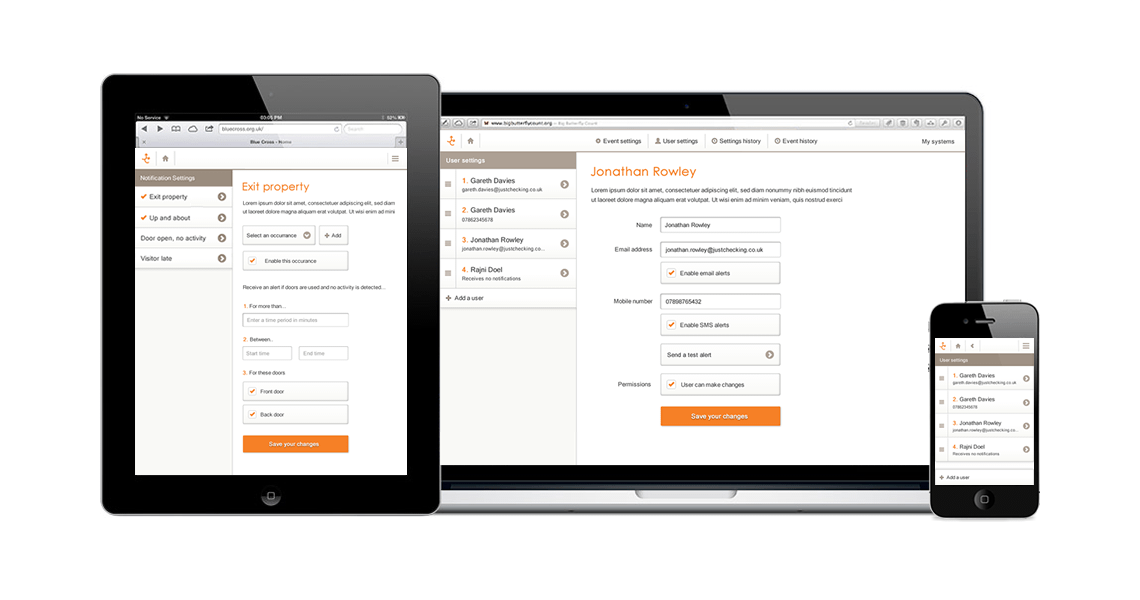
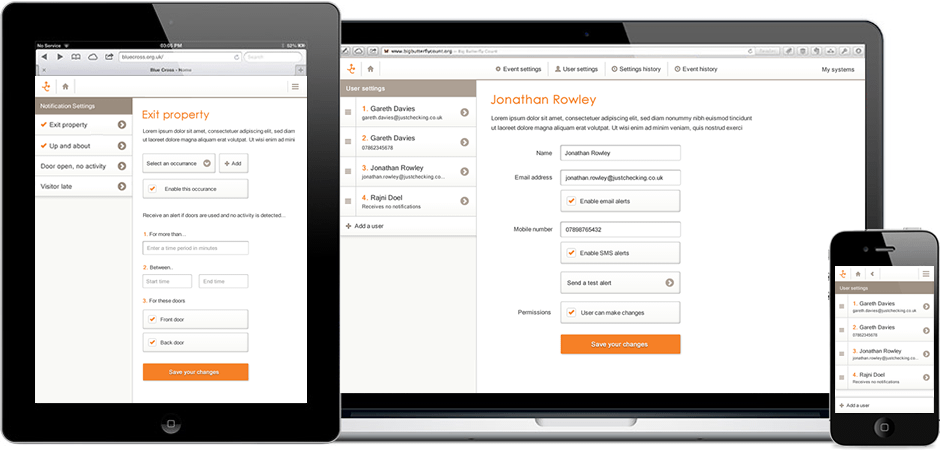
updated images to png

diff --git a/publish/index.html b/publish/index.html
@@ -11,10 +11,9 @@
 	<title>Gareth Davies | Web Design &amp; Development | Birmingham, UK</title>
 	<meta name=description content="The personal website of Birmingham based designer and developer Gareth Davies">
 	<meta name=author content="Gareth Davies">
-
 	<meta name=viewport content="width=device-width, initial-scale=1, maximum-scale=1">
-
-	<link rel=stylesheet href='css/a5b1796.css'>
+	<link rel="shortcut icon" href="images/favicon.ico">
+	<link rel=stylesheet href='css/69ebaae.css'>
 
 </head>
 
@@ -52,7 +51,7 @@
 
 		<section class=clearfix>
 
-			<img data-original="images/work-carerplus.jpg" src="images/placeholder.gif" alt="" class="margin-bottom pull-right">
+			<img data-original="images/work-carerplus.png" src="images/placeholder.gif" alt="Carer+ mockups" class="margin-bottom pull-right">
 
 			<header>
 
@@ -91,7 +90,7 @@
 
 		<section class=clearfix>
 
-			<img data-original="images/work-jc.jpg" src="images/placeholder.gif" alt="" class="margin-bottom pull-right">
+			<img data-original="images/work-jc.png" src="images/placeholder.gif" alt="Support dashboard mockups" class="margin-bottom pull-right">
 
 			<header>
 
@@ -128,7 +127,7 @@
 
 		<section>
 
-			<img data-original="images/work-bcu.jpg" src="images/placeholder.gif" alt="" class="margin-bottom pull-right">
+			<img data-original="images/work-bcu.png" src="images/placeholder.gif" alt="Birmingham City University mockups" class="margin-bottom pull-right">
 
 			<header>
 
@@ -170,7 +169,7 @@
 
 			</header>
 
-			<img data-original="images/work-youthspace.jpg" src="images/placeholder.gif" alt="" class="margin-bottom pull-right">
+			<img data-original="images/work-youthspace.png" src="images/placeholder.gif" alt="Youthspace mockups" class="margin-bottom pull-right">
 
 			<div class="column-left pull-left">
 
@@ -205,7 +204,7 @@
 
 			</header>
 
-			<img data-original="images/work-sso.jpg" src="images/placeholder.gif" alt="" class="margin-bottom pull-right">
+			<img data-original="images/work-sso.png" src="images/placeholder.gif" alt="SSO mockups" class="margin-bottom pull-right">
 
 			<div class="column-left pull-left">
 
@@ -235,7 +234,7 @@
 	<script>window.jQuery||document.write('<script src="js/libs/jquery-1.8.2.min.js"><\/script>');</script>
 
 	<script defer src='js/e88d86b.js'></script>
-	
+
 	<script>var _gaq=[["_setAccount","UA-21012185-1"],["_trackPageview"]];(function(e,a){var c=e.createElement(a),b=e.getElementsByTagName(a)[0];c.src=("https:"==location.protocol?"//ssl":"//www")+".google-analytics.com/ga.js";b.parentNode.insertBefore(c,b)}(document,"script"));</script>
 
 </body>

diff --git a/intermediate/index.html b/intermediate/index.html
@@ -11,10 +11,9 @@
 	<title>Gareth Davies | Web Design &amp; Development | Birmingham, UK</title>
 	<meta name="description" content="The personal website of Birmingham based designer and developer Gareth Davies">
 	<meta name="author" content="Gareth Davies">
-
 	<meta name="viewport" content="width=device-width, initial-scale=1, maximum-scale=1">
-
-	<link rel="stylesheet" href='css/a5b1796.css'>
+	<link rel="shortcut icon" href="images/favicon.ico">
+	<link rel="stylesheet" href='css/69ebaae.css'>
 
 </head>
 
@@ -52,7 +51,7 @@
 
 		<section class="clearfix">
 
-			<img data-original="images/work-carerplus.jpg" src="images/placeholder.gif" alt="" class="margin-bottom pull-right">
+			<img data-original="images/work-carerplus.png" src="images/placeholder.gif" alt="Carer+ mockups" class="margin-bottom pull-right">
 
 			<header>
 
@@ -91,7 +90,7 @@
 
 		<section class="clearfix">
 
-			<img data-original="images/work-jc.jpg" src="images/placeholder.gif" alt="" class="margin-bottom pull-right">
+			<img data-original="images/work-jc.png" src="images/placeholder.gif" alt="Support dashboard mockups" class="margin-bottom pull-right">
 
 			<header>
 
@@ -128,7 +127,7 @@
 
 		<section>
 
-			<img data-original="images/work-bcu.jpg" src="images/placeholder.gif" alt="" class="margin-bottom pull-right">
+			<img data-original="images/work-bcu.png" src="images/placeholder.gif" alt="Birmingham City University mockups" class="margin-bottom pull-right">
 
 			<header>
 
@@ -170,7 +169,7 @@
 
 			</header>
 
-			<img data-original="images/work-youthspace.jpg" src="images/placeholder.gif" alt="" class="margin-bottom pull-right">
+			<img data-original="images/work-youthspace.png" src="images/placeholder.gif" alt="Youthspace mockups" class="margin-bottom pull-right">
 
 			<div class="column-left pull-left">
 
@@ -205,7 +204,7 @@
 
 			</header>
 
-			<img data-original="images/work-sso.jpg" src="images/placeholder.gif" alt="" class="margin-bottom pull-right">
+			<img data-original="images/work-sso.png" src="images/placeholder.gif" alt="SSO mockups" class="margin-bottom pull-right">
 
 			<div class="column-left pull-left">
 
@@ -235,7 +234,7 @@
 	<script>window.jQuery || document.write('<script src="js/libs/jquery-1.8.2.min.js"><\/script>')</script>
 
 	<script defer src='js/e88d86b.js'></script>
-	
+
 	<script>
 		var _gaq=[['_setAccount','UA-21012185-1'],['_trackPageview']];
 		(function(d,t){var g=d.createElement(t),s=d.getElementsByTagName(t)[0];

diff --git a/intermediate/css/style-concat.css b/intermediate/css/style-concat.css
@@ -29,7 +29,7 @@
 		padding: 0;
 		border: 0;
 /*		font-size: 100%;*/
-		font: inherit;
+		/*font: inherit;*/
 		vertical-align: baseline; }
 	article, aside, details, figcaption, figure, footer, header, hgroup, menu, nav, section {
 		display: block; }
@@ -645,6 +645,11 @@
 
 		img { width:100%; }
 
+		.no-list li {
+			float: none;
+			width: 100%;
+		}
+
 	}
 
 	/* Tablet Portrait size to standard 960 (devices and browsers) */
@@ -653,34 +658,25 @@
 	/* All Mobile Sizes (devices and browser) */
 	@media only screen and (max-width: 767px) {
 
-		.no-list li {
-			float: none;
-			width: 100%;
-		}
+		
 
 	}
 
 	/* Mobile Landscape Size to Tablet Portrait (devices and browsers) */
 	@media only screen and (min-width: 480px) and (max-width: 767px) {
 
-		h1 { font-size: 34px; font-size: 3.4rem; line-height: 42px; margin-bottom: 18px;}
-		h2 { font-size: 28px; font-size: 2.8rem; line-height: 40px; margin-bottom: 18px; }
-		h3 { font-size: 22px; font-size: 2.2rem; line-height: 34px; margin-bottom: 14px; }
-		h4 { font-size: 18px; font-size: 1.8rem; line-height: 30px; margin-bottom: 14px; }
-		h5 { font-size: 16px; font-size: 1.6rem; line-height: 24px; }
-		h6 { font-size: 14px; font-size: 1.4rem; line-height: 21px; }
+		h1 { font-size: 40px; font-size: 4.0rem; line-height: 42px; margin-bottom: 18px;}
+		h2 { font-size: 32px; font-size: 3.2rem; line-height: 40px; margin-bottom: 18px; }
 
 	}
 
 	/* Mobile Portrait Size to Mobile Landscape Size (devices and browsers) */
 	@media only screen and (max-width: 479px) {
 
-		h1 { font-size: 44px; font-size: 4.4rem; line-height: 42px; margin-bottom: 18px;}
-		h2 { font-size: 34px; font-size: 3.4rem; line-height: 40px; margin-bottom: 18px; }
-		h3 { font-size: 28px; font-size: 2.8rem; line-height: 34px; margin-bottom: 14px; }
-		h4 { font-size: 22px; font-size: 2.2rem; line-height: 30px; margin-bottom: 14px; }
-		h5 { font-size: 18px; font-size: 1.8rem; line-height: 24px; }
-		h6 { font-size: 16px; font-size: 1.6rem; line-height: 21px; }
+		body { font-size: 16px; font-size: 1.6rem; }
+
+		h1 { font-size: 34px; font-size: 3.4rem; line-height: 42px; margin-bottom: 18px;}
+		h2 { font-size: 28px; font-size: 2.8rem; line-height: 40px; margin-bottom: 18px; }
 
 		hr { margin: 60px 0 30px; }
 

diff --git a/index.html b/index.html
@@ -11,9 +11,8 @@
 	<title>Gareth Davies | Web Design &amp; Development | Birmingham, UK</title>
 	<meta name="description" content="The personal website of Birmingham based designer and developer Gareth Davies">
 	<meta name="author" content="Gareth Davies">
-
 	<meta name="viewport" content="width=device-width, initial-scale=1, maximum-scale=1">
-
+	<link rel="shortcut icon" href="images/favicon.ico">
 	<link rel="stylesheet" href="css/style.css">
 
 </head>
@@ -52,7 +51,7 @@
 
 		<section class="clearfix">
 
-			<img data-original="images/work-carerplus.jpg" src="images/placeholder.gif" alt="Carer+ mockups" class="margin-bottom pull-right">
+			<img data-original="images/work-carerplus.png" src="images/placeholder.gif" alt="Carer+ mockups" class="margin-bottom pull-right">
 
 			<header>
 
@@ -91,7 +90,7 @@
 
 		<section class="clearfix">
 
-			<img data-original="images/work-jc.jpg" src="images/placeholder.gif" alt="Support dashboard mockups" class="margin-bottom pull-right">
+			<img data-original="images/work-jc.png" src="images/placeholder.gif" alt="Support dashboard mockups" class="margin-bottom pull-right">
 
 			<header>
 
@@ -128,7 +127,7 @@
 
 		<section>
 
-			<img data-original="images/work-bcu.jpg" src="images/placeholder.gif" alt="Birmingham City University mockups" class="margin-bottom pull-right">
+			<img data-original="images/work-bcu.png" src="images/placeholder.gif" alt="Birmingham City University mockups" class="margin-bottom pull-right">
 
 			<header>
 
@@ -170,7 +169,7 @@
 
 			</header>
 
-			<img data-original="images/work-youthspace.jpg" src="images/placeholder.gif" alt="Youthspace mockups" class="margin-bottom pull-right">
+			<img data-original="images/work-youthspace.png" src="images/placeholder.gif" alt="Youthspace mockups" class="margin-bottom pull-right">
 
 			<div class="column-left pull-left">
 
@@ -205,7 +204,7 @@
 
 			</header>
 
-			<img data-original="images/work-sso.jpg" src="images/placeholder.gif" alt="SSO mockups" class="margin-bottom pull-right">
+			<img data-original="images/work-sso.png" src="images/placeholder.gif" alt="SSO mockups" class="margin-bottom pull-right">
 
 			<div class="column-left pull-left">
 

diff --git a/css/layout.css b/css/layout.css
@@ -28,6 +28,11 @@
 
 		img { width:100%; }
 
+		.no-list li {
+			float: none;
+			width: 100%;
+		}
+
 	}
 
 	/* Tablet Portrait size to standard 960 (devices and browsers) */
@@ -36,34 +41,25 @@
 	/* All Mobile Sizes (devices and browser) */
 	@media only screen and (max-width: 767px) {
 
-		.no-list li {
-			float: none;
-			width: 100%;
-		}
+		
 
 	}
 
 	/* Mobile Landscape Size to Tablet Portrait (devices and browsers) */
 	@media only screen and (min-width: 480px) and (max-width: 767px) {
 
-		h1 { font-size: 34px; font-size: 3.4rem; line-height: 42px; margin-bottom: 18px;}
-		h2 { font-size: 28px; font-size: 2.8rem; line-height: 40px; margin-bottom: 18px; }
-		h3 { font-size: 22px; font-size: 2.2rem; line-height: 34px; margin-bottom: 14px; }
-		h4 { font-size: 18px; font-size: 1.8rem; line-height: 30px; margin-bottom: 14px; }
-		h5 { font-size: 16px; font-size: 1.6rem; line-height: 24px; }
-		h6 { font-size: 14px; font-size: 1.4rem; line-height: 21px; }
+		h1 { font-size: 40px; font-size: 4.0rem; line-height: 42px; margin-bottom: 18px;}
+		h2 { font-size: 32px; font-size: 3.2rem; line-height: 40px; margin-bottom: 18px; }
 
 	}
 
 	/* Mobile Portrait Size to Mobile Landscape Size (devices and browsers) */
 	@media only screen and (max-width: 479px) {
 
-		h1 { font-size: 44px; font-size: 4.4rem; line-height: 42px; margin-bottom: 18px;}
-		h2 { font-size: 34px; font-size: 3.4rem; line-height: 40px; margin-bottom: 18px; }
-		h3 { font-size: 28px; font-size: 2.8rem; line-height: 34px; margin-bottom: 14px; }
-		h4 { font-size: 22px; font-size: 2.2rem; line-height: 30px; margin-bottom: 14px; }
-		h5 { font-size: 18px; font-size: 1.8rem; line-height: 24px; }
-		h6 { font-size: 16px; font-size: 1.6rem; line-height: 21px; }
+		body { font-size: 16px; font-size: 1.6rem; }
+
+		h1 { font-size: 34px; font-size: 3.4rem; line-height: 42px; margin-bottom: 18px;}
+		h2 { font-size: 28px; font-size: 2.8rem; line-height: 40px; margin-bottom: 18px; }
 
 		hr { margin: 60px 0 30px; }
 

diff --git a/css/base.css b/css/base.css
@@ -29,7 +29,7 @@
 		padding: 0;
 		border: 0;
 /*		font-size: 100%;*/
-		font: inherit;
+		/*font: inherit;*/
 		vertical-align: baseline; }
 	article, aside, details, figcaption, figure, footer, header, hgroup, menu, nav, section {
 		display: block; }

diff --git a/js/script.js b/js/script.js
@@ -1,5 +1,6 @@
-/* Author:
-
+/*
+Initialise
+by Gareth Davies
 */
 
 $(function() {
